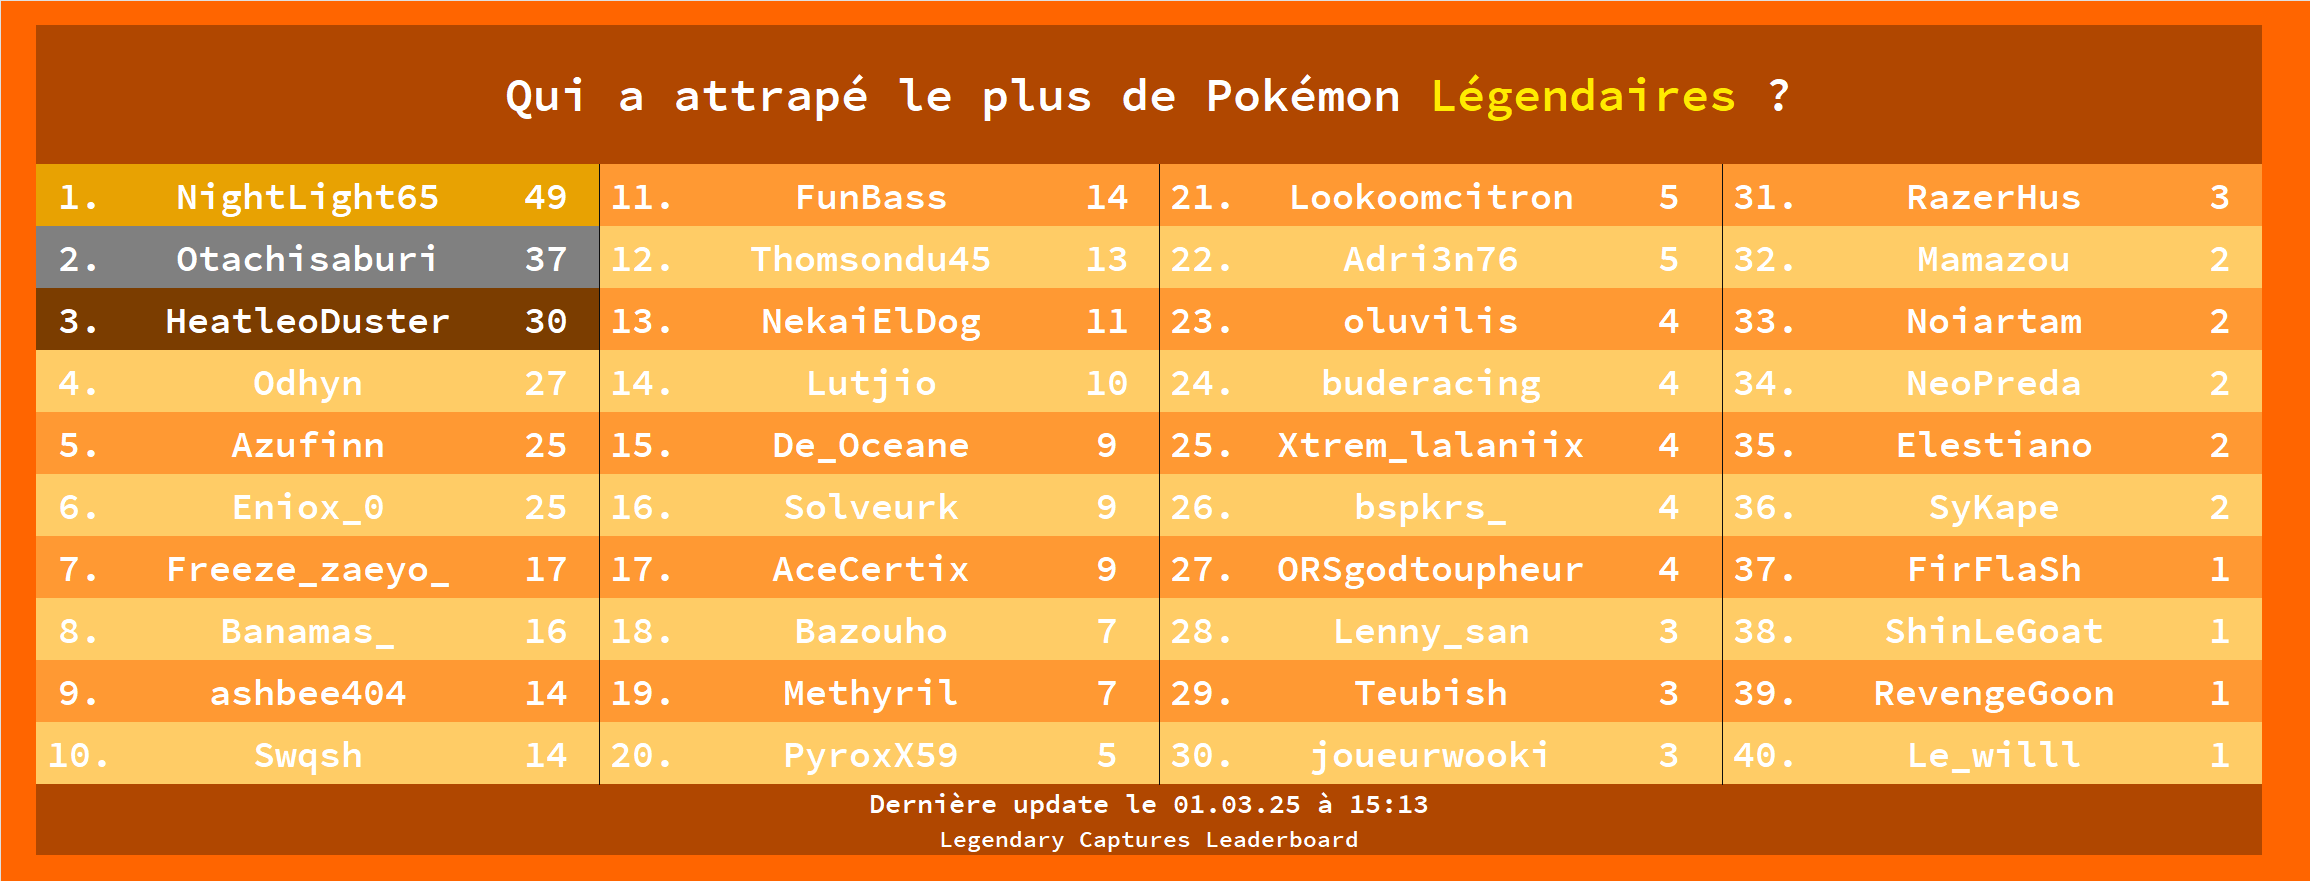
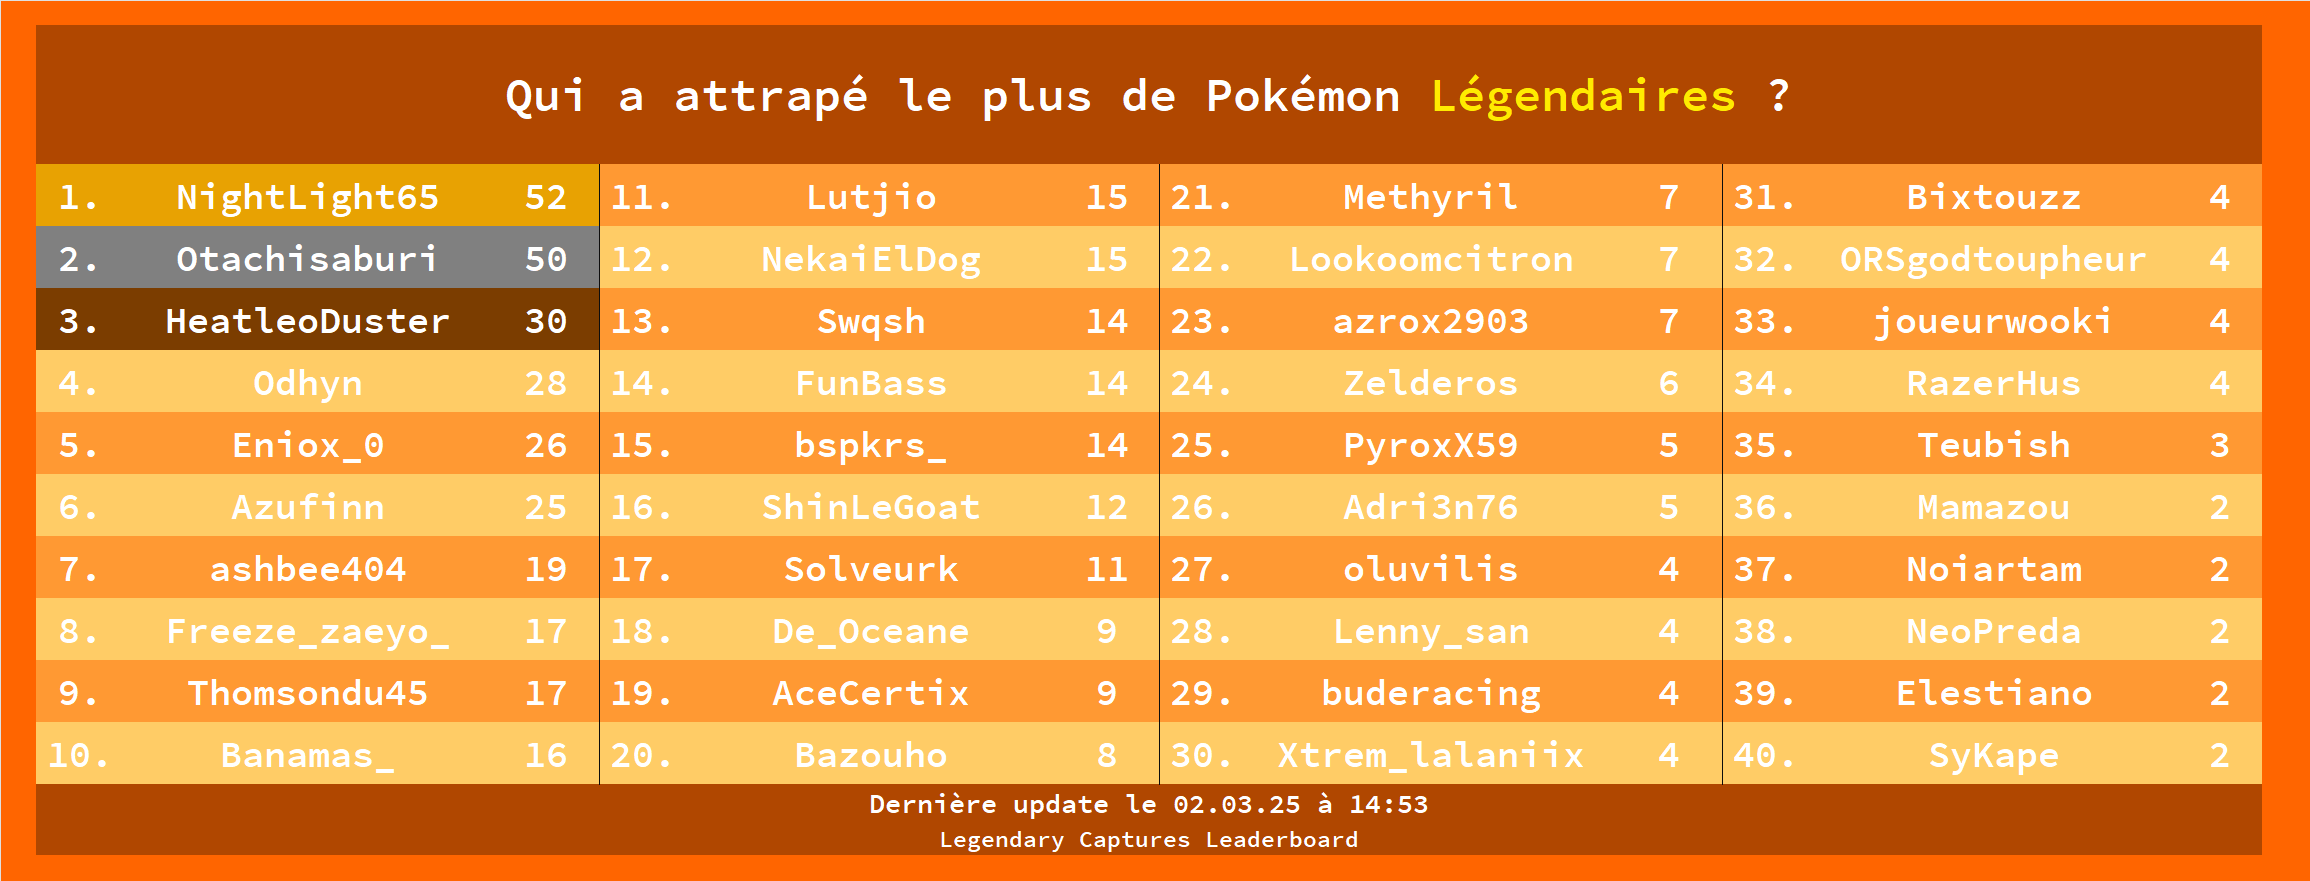
update

diff --git a/src/scoreboard.js b/src/scoreboard.js
@@ -301,9 +301,8 @@ export function getMostLegendariesPlayers(players) {
 
 (async () => {
   try {
-    // Optionally clear local data and download from FTP if needed:
-    // clearLocalData();
-    // await downloadPlayerData();
+    clearLocalData();
+    await downloadPlayerData();
 
     // Load the user cache mapping and read player data
     const namesMapping = loadUserCacheMapping();
